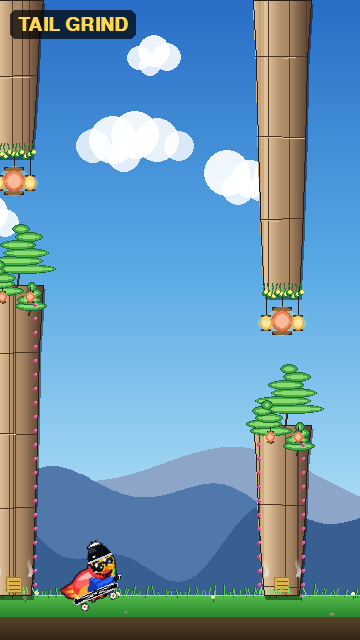
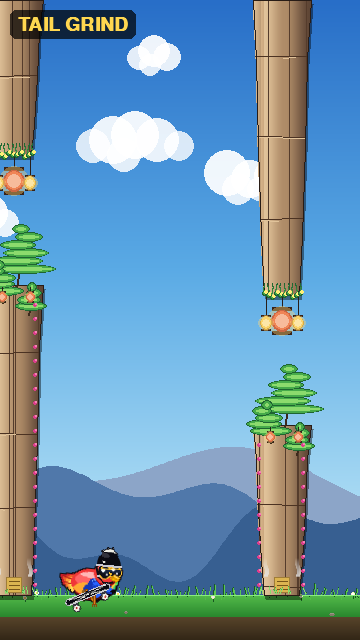
SKATEBOARD GRIND: Pip stays upright; board-only tilt + parrot legs
User feedback: "the bird doesn't need to be tilted, only the
board. You can put tiny parrot legs to balance this issue."

Changes:
  * Removed the grind tilt from Bird.tilt_deg — Pip's body now
    stays at its normal velocity-banked posture during grinds.
  * Added the ±28° grind tilt INSIDE _draw_skateboard so the
    board alone rotates.
  * New _draw_grind_legs method renders 2 small parrot-orange
    "shins" (3 px wide x ~6-16 px tall) from Pip's underside
    down to the deck. The leg lengths are asymmetric so the
    side with the bigger gap between Pip and the tilted board
    gets a longer leg:
      nose grind (board nose-down on right) -> left leg = 16,
                                                 right = 6
      tail grind                            -> left = 6, right = 16
    Each leg ends with 3 tiny vertical claw ticks for a foot
    hint. The board is drawn ON TOP so the bottom of the legs
    is naturally covered by the deck.

Changed region(s): [[0.1528, 0.8438, 0.3667, 0.9688]]

diff --git a/game/entities.py b/game/entities.py
@@ -804,16 +804,9 @@ class Bird:
         # Pip's pitch.
         t = max(-0.5, min(0.75, self.vy / 500.0))
         base = -t * 55.0
-        # GRIND: while the random grind is active, the board pivots
-        # around either its nose (front truck on the surface, tail
-        # in the air) or its tail (back truck on, nose in the air).
-        # Pip's tilt has to match the board so they look balanced.
-        # In side-view going right, "nose" is the right end of the
-        # board and "tail" is the left end.
-        if self.grind_type == "nose":
-            base += -28.0  # nose down → tail in the air
-        elif self.grind_type == "tail":
-            base += 28.0   # nose up → tail planted
+        # GRIND tilt is applied ONLY to the board (inside
+        # _draw_skateboard) so Pip stays upright; tiny parrot legs
+        # render in the gap between his body and the tilted deck.
         # During a backflip, ride a full 360° rotation on top of the base
         # tilt. pygame's rotate is modulo-360 internally so values beyond
         # the normal clamp are fine.
@@ -1006,6 +999,13 @@ class Bird:
         # SKATEBOARD: parcel transforms into a tiny skateboard. The original
         # parcel hitbox is disabled in world.py for the duration.
         if self.skateboard_active:
+            # GRIND legs — small parrot-orange shins from Pip's
+            # underside down to the (tilted) board. Drawn BEFORE
+            # the board so the deck covers the bottom of the legs.
+            if self.grind_type is not None:
+                self._draw_grind_legs(surf,
+                                       self.x + shake_x,
+                                       self.y + shake_y)
             self._draw_skateboard(surf, self.x + shake_x, self.y + shake_y, flipped)
             return
         if self.kfc_active:
@@ -1287,6 +1287,37 @@ class Bird:
                                      int(cy + offset.y)))
         surf.blit(rotated, r.topleft)
 
+    def _draw_grind_legs(self, surf, cx, cy):
+        """Tiny parrot-leg "shins" connecting Pip's underside to
+        the tilted skateboard deck. Only drawn while a grind is
+        active. The board renders on top of the legs' lower ends
+        so the visual reads as "legs into the deck."
+
+        For a NOSE grind (nose-down on the right) the LEFT side has
+        a bigger Pip-to-deck gap, so the left leg is drawn longer.
+        For a TAIL grind it's mirrored."""
+        ORANGE = (220, 130, 30)
+        DARK   = (140,  70,  10)
+        leg_top_y = int(cy + 8)
+        # Per-side leg length picks up the slack from the 28° tilt.
+        if self.grind_type == "nose":
+            left_len, right_len = 16, 6
+        else:
+            left_len, right_len = 6, 16
+        for sign, length in ((-1, left_len), (+1, right_len)):
+            x = int(cx + sign * 4)
+            # Leg shank.
+            pygame.draw.rect(surf, ORANGE,
+                             (x - 1, leg_top_y, 3, length))
+            pygame.draw.rect(surf, DARK,
+                             (x - 1, leg_top_y, 3, length), 1)
+            # Tiny claw at the bottom — 3-toe parrot foot hint.
+            foot_y = leg_top_y + length - 1
+            for dx in (-2, 0, 2):
+                pygame.draw.line(surf, DARK,
+                                 (x + dx, foot_y),
+                                 (x + dx, foot_y + 2), 1)
+
     def _draw_skateboard(self, surf, cx, cy, flipped):
         """Skull skateboard under Pip's feet — black deck with a chrome
         outline, white skull centred, white crossbones diagonals. Cream
@@ -1386,6 +1417,13 @@ class Bird:
             p = 1.0 - self.heelflip_t / self.heelflip_dur
             eased = p * p * p * (p * (p * 6.0 - 15.0) + 10.0)
             tilt -= eased * 360.0
+        # GRIND — board-only tilt while one of the trucks is on
+        # the rail. Pip himself stays upright; the parrot-leg
+        # rendering below picks up the slack visually.
+        if self.grind_type == "nose":
+            tilt -= 28.0    # nose down → tail in the air
+        elif self.grind_type == "tail":
+            tilt += 28.0    # nose up → tail planted
         rotated = pygame.transform.rotate(board_surf, tilt)
         # POP SHUVIT — horizontal scale-X = cos(p·π) on top of
         # whatever rotation is in `rotated`. Board flattens edge-on
